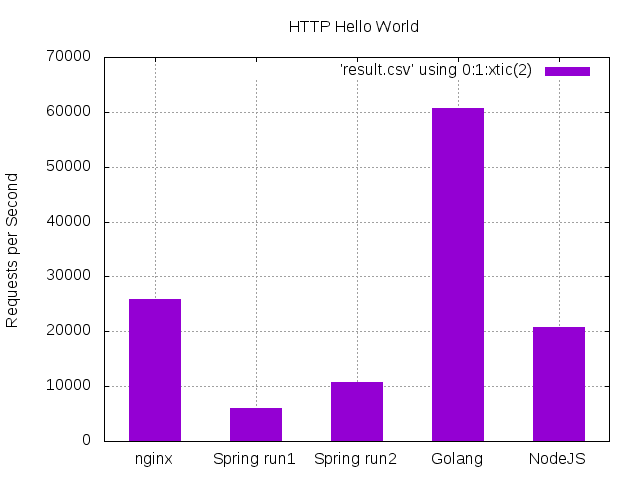
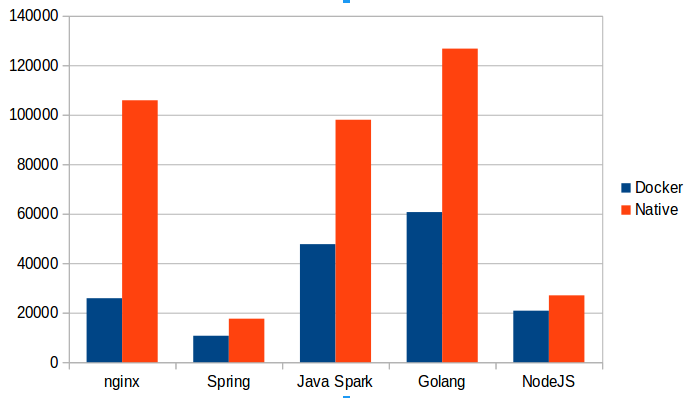
added Spark example and measure without docker

diff --git a/javaspark/src/main/java/hello/Hello.java b/javaspark/src/main/java/hello/Hello.java
@@ -1,0 +1,14 @@
+package hello;
+
+import static spark.Spark.get;
+import static spark.Spark.port;
+
+public class Hello {
+    
+    public static void main(String[] args) {
+        port(8080);
+        System.out.println("stating java server");
+        get("/", (req, res) -> "Hello World");
+    }
+
+}

diff --git a/README.md b/README.md
@@ -3,6 +3,7 @@ Mini bechmark, comparing the performance HTTP 'hello world' on different stacks:
 
 * NGINX 1.11.5
 * Java Spring-Boot 1.4.2, Oracle JDK 8
+* Java Spark Framework
 * Golang 1.7
 * NodeJS 7.2
 
@@ -10,13 +11,15 @@ Mini bechmark, comparing the performance HTTP 'hello world' on different stacks:
 
 ![Result](result.png)
 
-| Framework                | Requests per second |
-|--------------------------|---------------------|
-| nginx                    | 25861               |
-| Spring-Boot (first run)  |  6041               |
-| Spring-Boot (second run) | 10705               |
-| Golang                   | 60662               |
-| NodeJS                   | 20812               |
+| Framework                | Req/sec (Docker)    | Req/sec (Native)
+|--------------------------|--------------------:|------------------:|
+| nginx                    | 25861               | 105844            |
+| Spring-Boot (first run)  |  6041               |  9625             |
+| Spring-Boot (second run) | 10705               | 17568             |
+| Java Spark (first run)   | 41443               | 87787             |
+| Java Spark (second run)  | 47698               | 97970             |
+| Golang                   | 60662               | 126742            |
+| NodeJS                   | 20812               | 27000             |
 
 
 # Test setup
